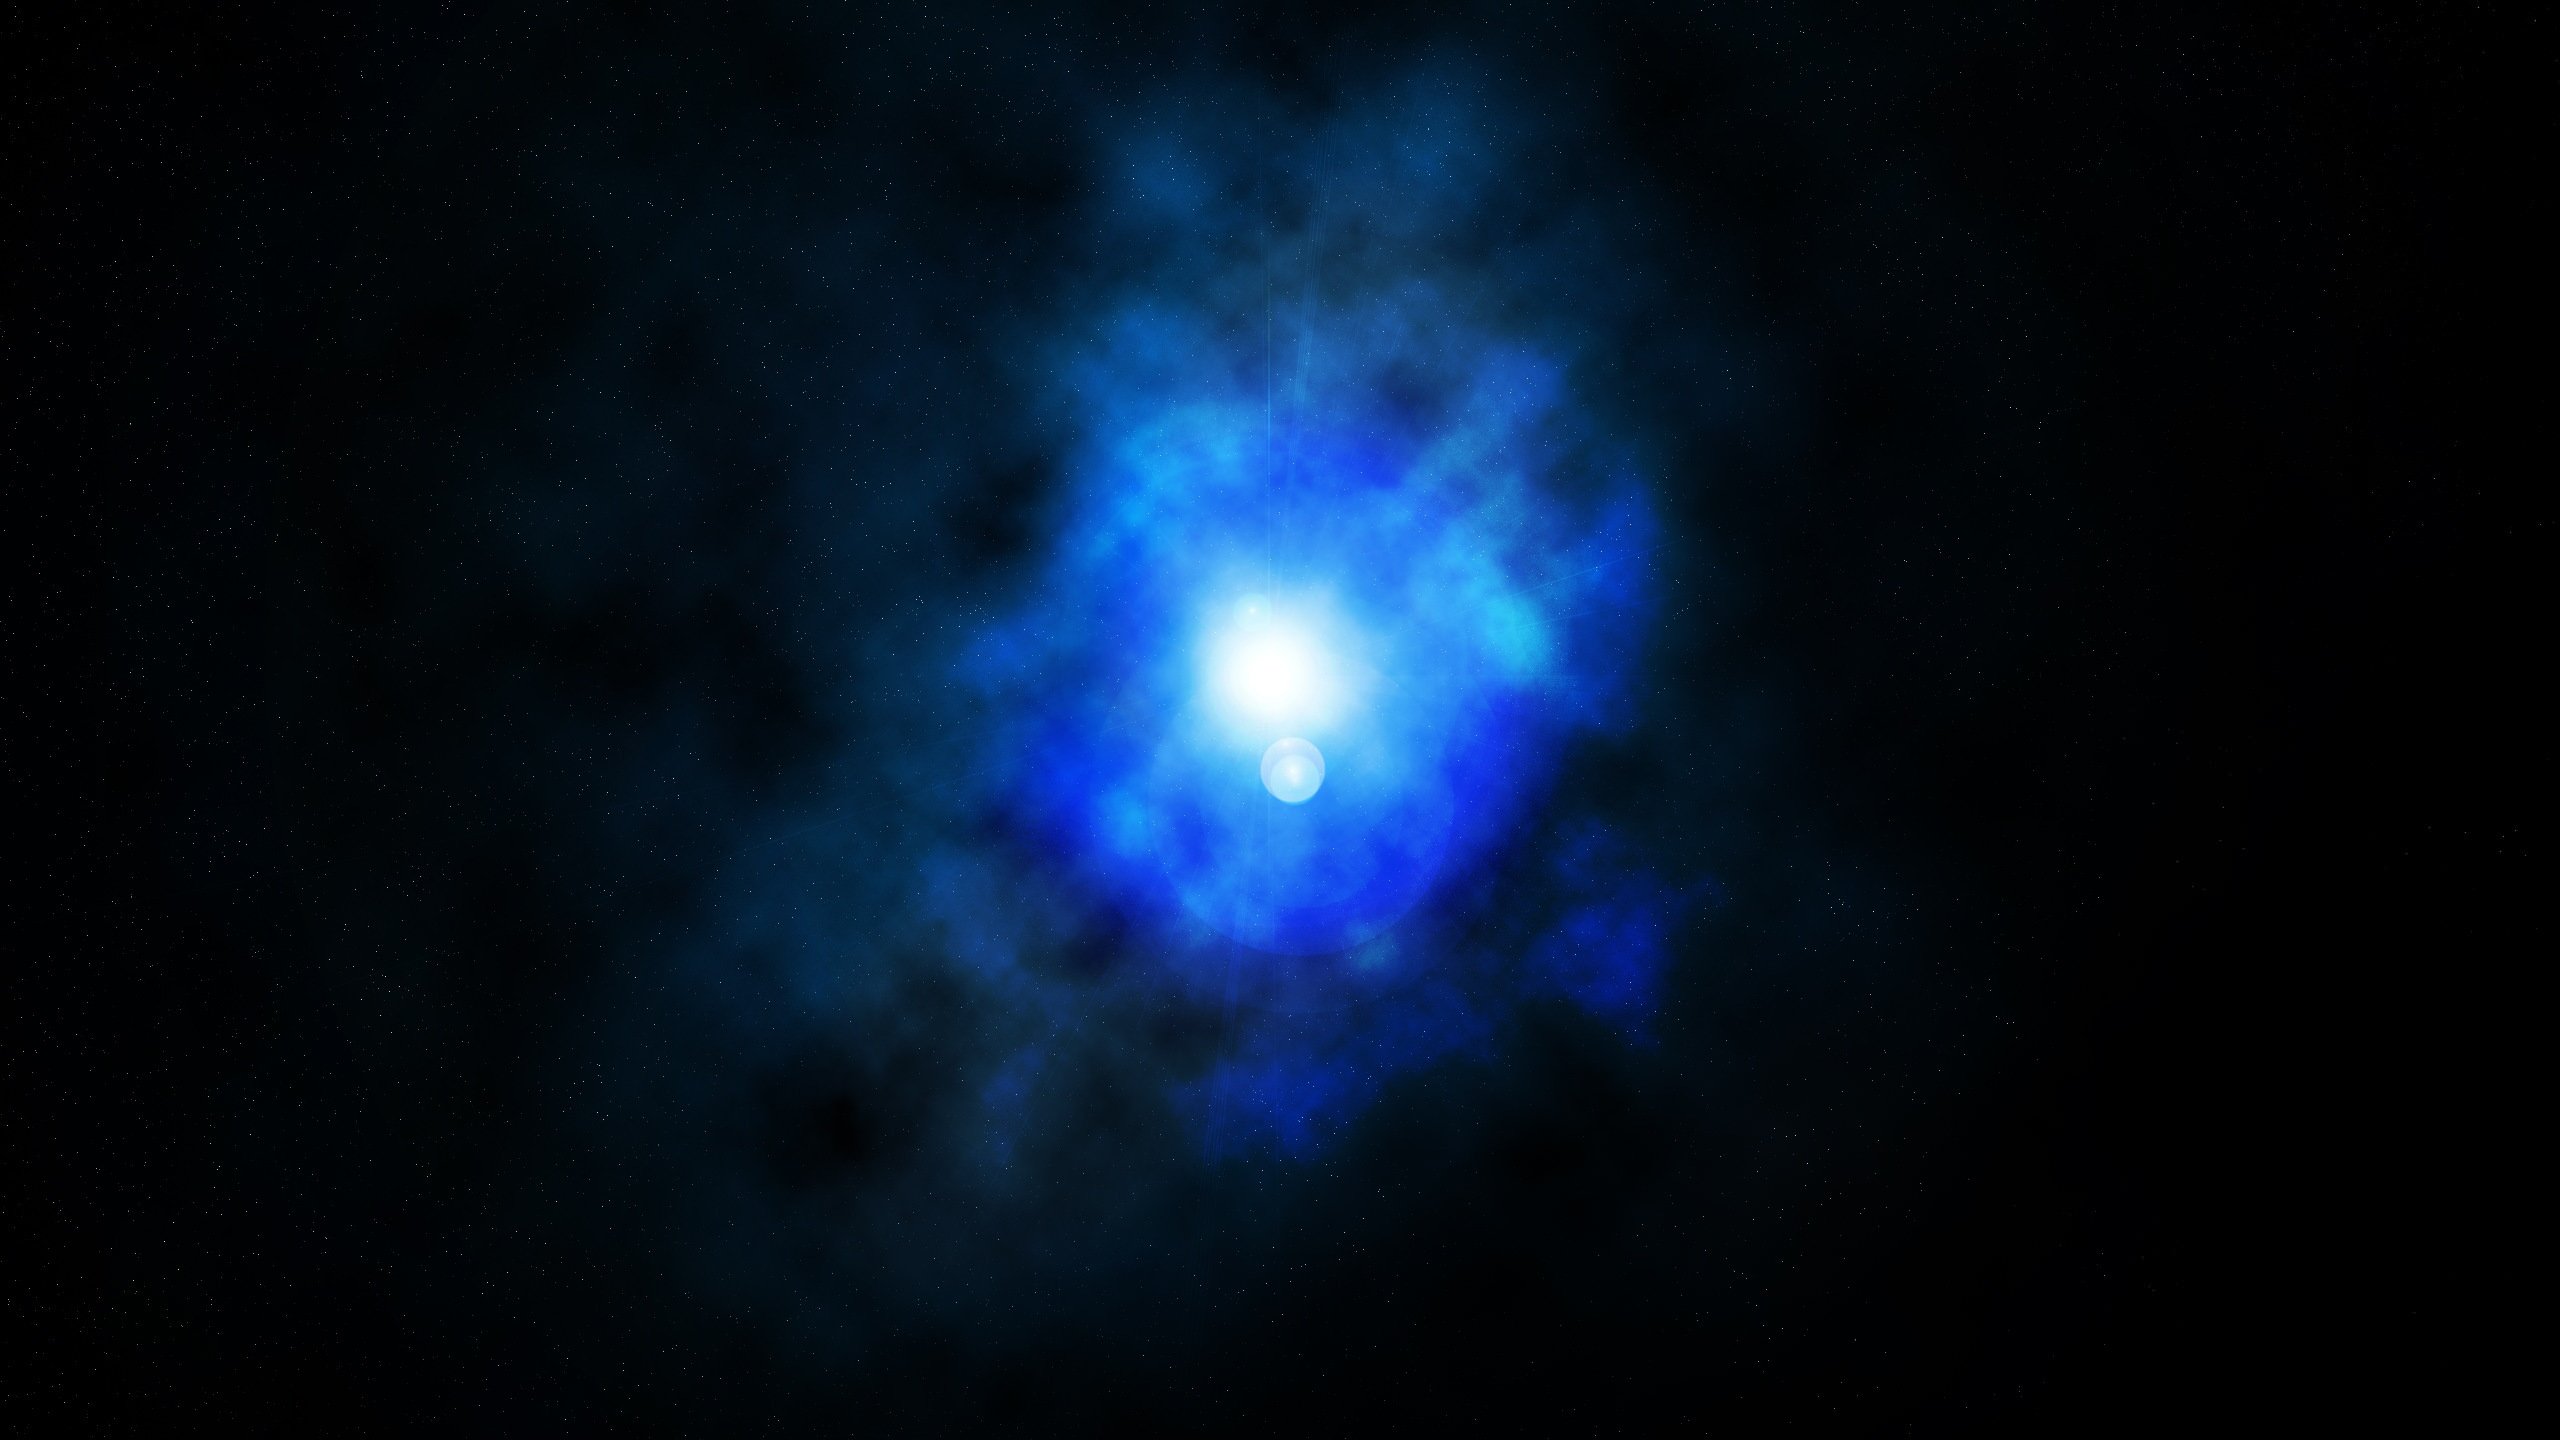
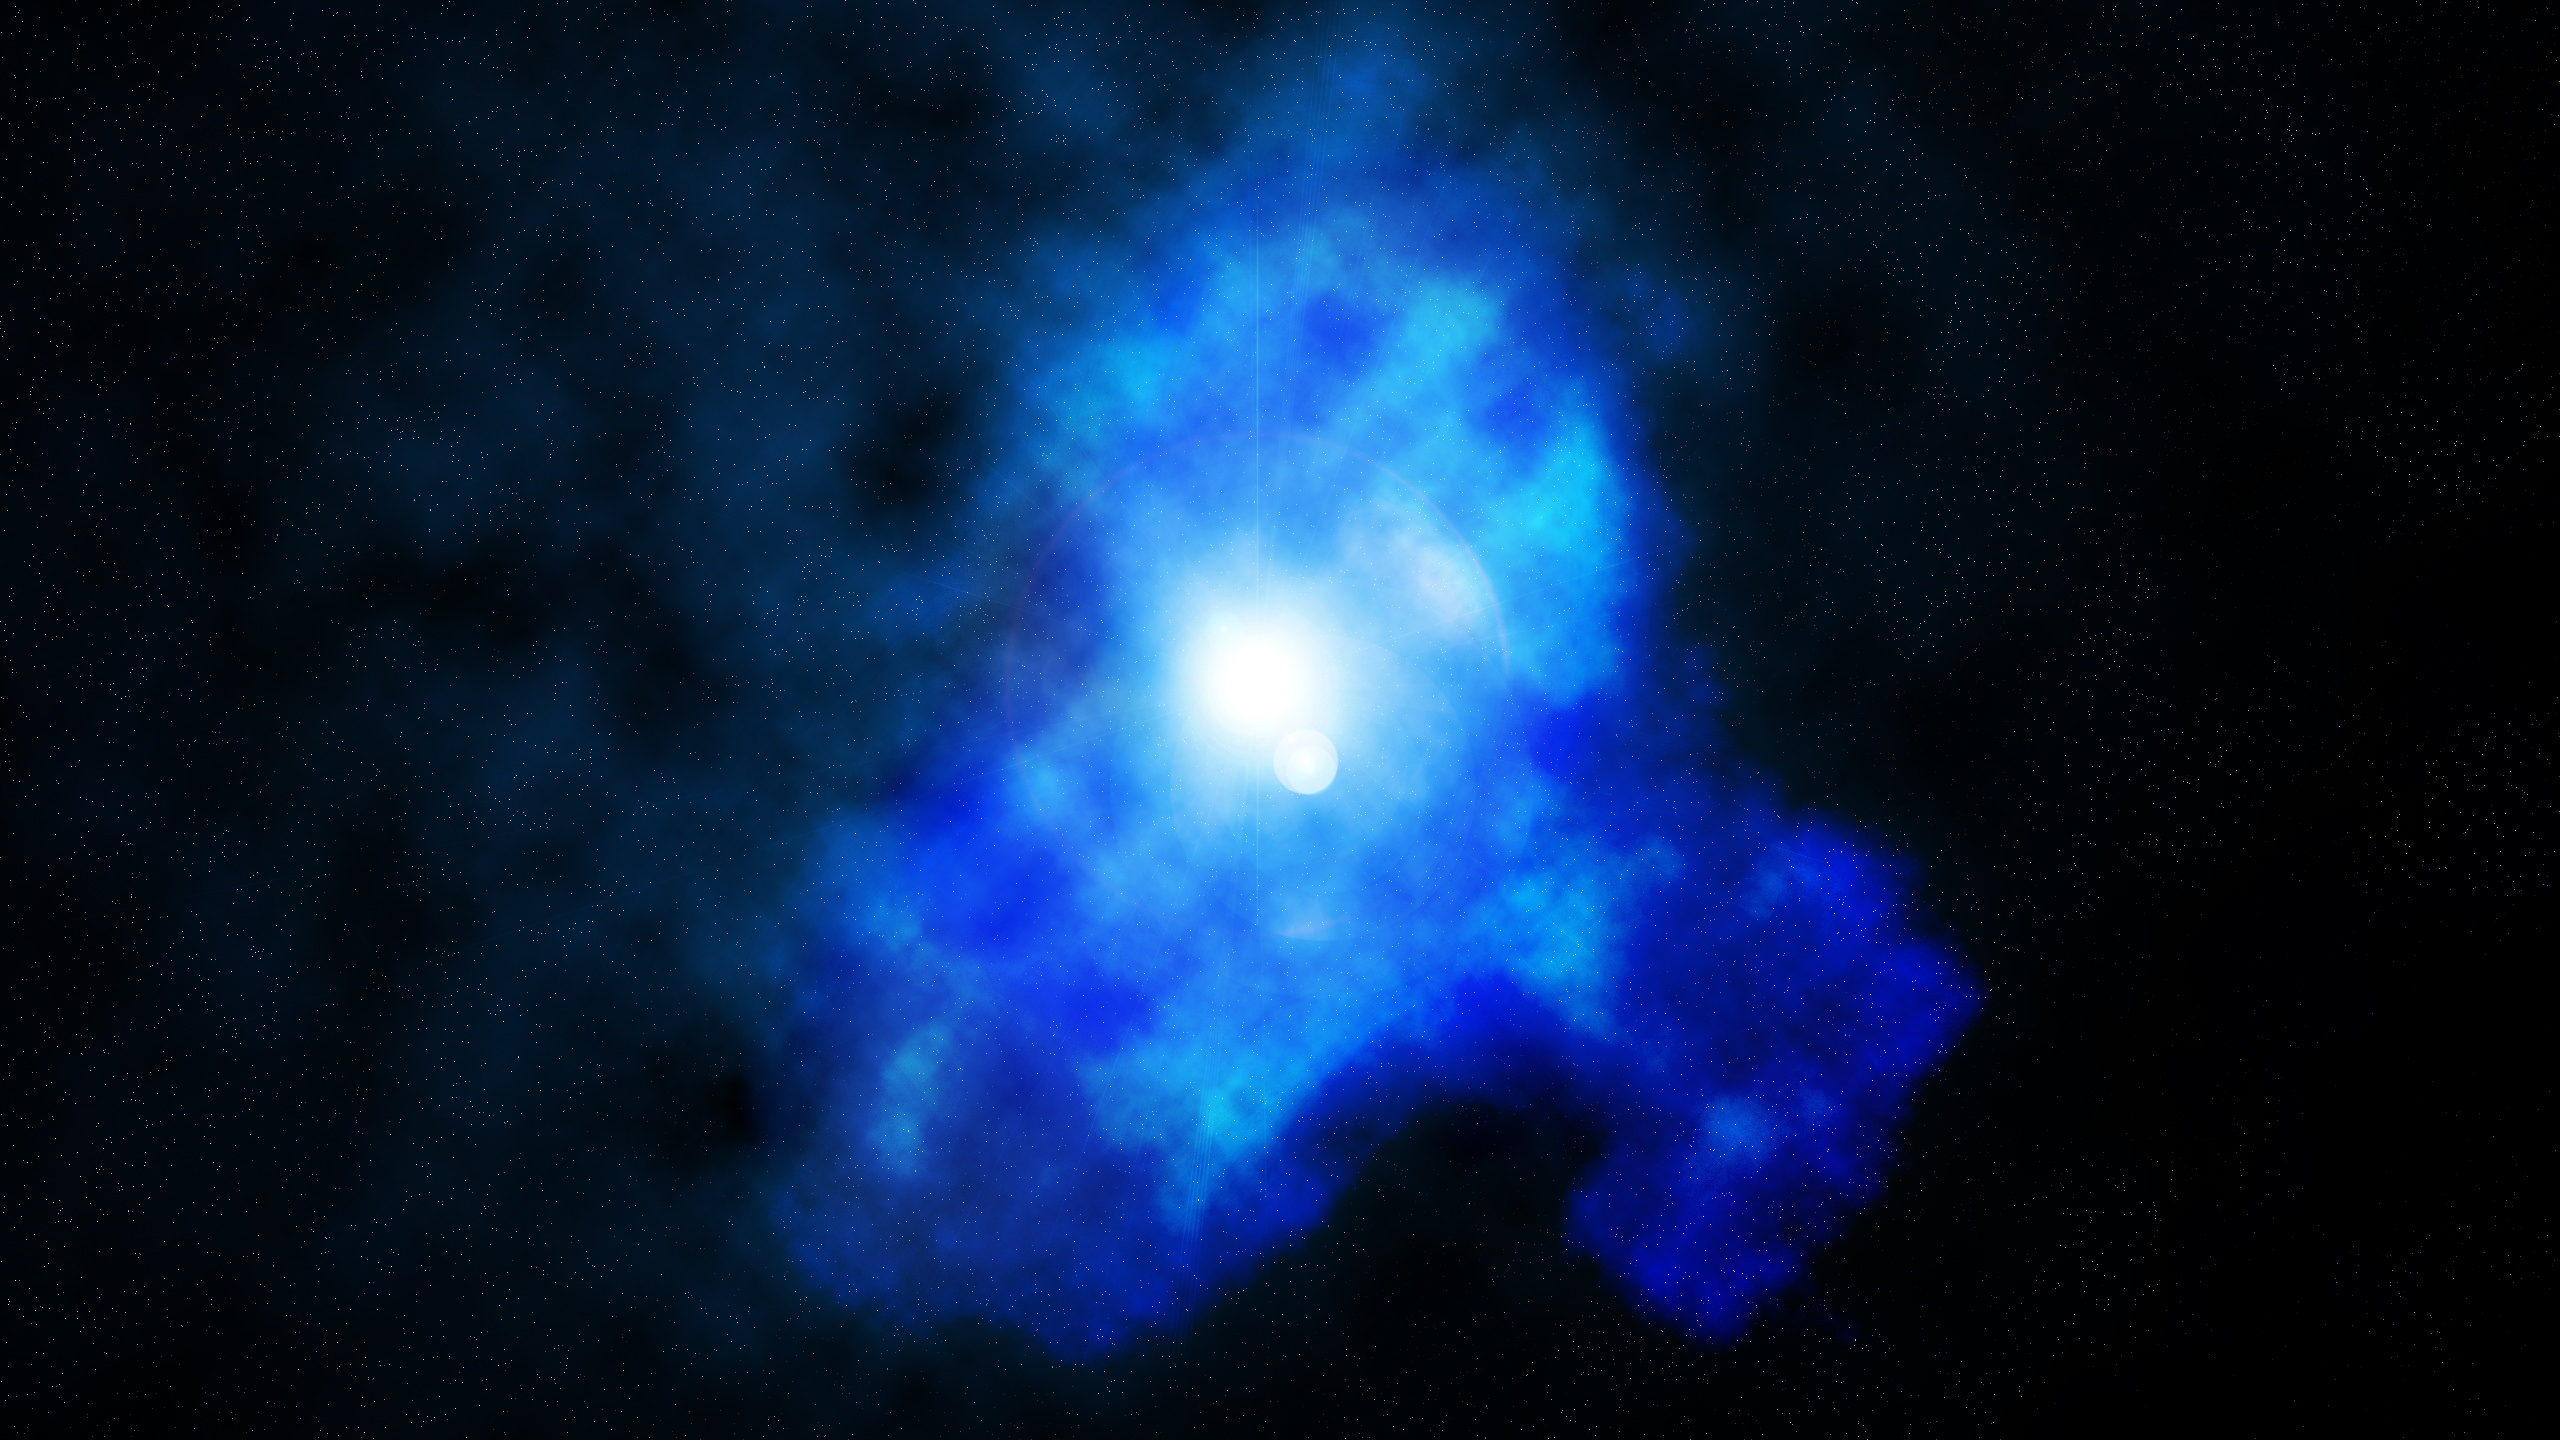
New BG by Matti, autofocus for nickname

diff --git a/index.html b/index.html
@@ -32,7 +32,7 @@
                     <form id="scoreform" method="post">
                         <h3>Choose a nickname!</h3>
                         <input type="text" maxlength="15" name="nick" id="nick" placeholder="Type your hipster nick, bro" autofocus>
-                        <input id="yes-button" class="submit-button" value="SUBMIT SCORE" type="submit" autofocus="autofocus" />
+                        <input id="yes-button" class="submit-button" value="SUBMIT SCORE" type="submit" />
                         <div id="no-button" class="submit-button">TRY AGAIN</div>
                     </form>
                 </div>

diff --git a/js/main.js b/js/main.js
@@ -132,6 +132,7 @@ $(function () {
 
             // Display the nameModal
             $('#nameModal').fadeIn();
+            $("input:text:visible:first").focus();
             
         });
 
